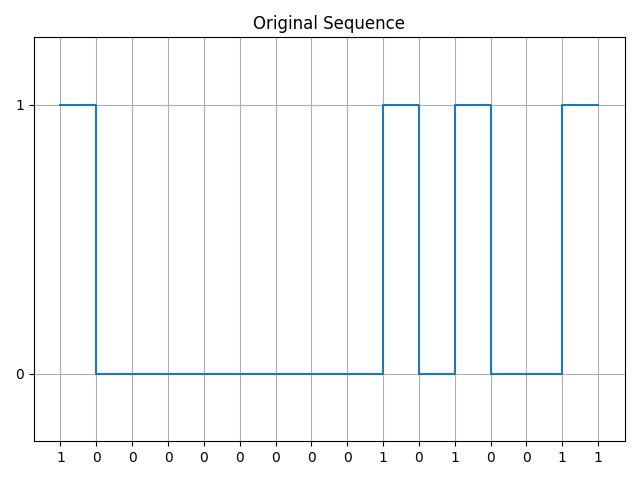
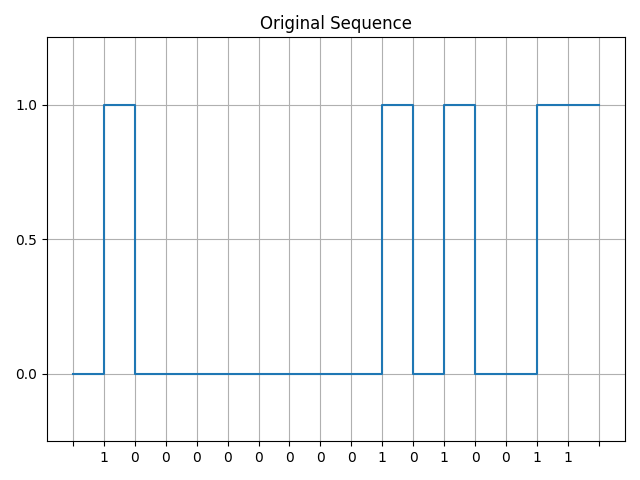
Imagens com fonte

diff --git a/project/utils/plot_encoding.py b/project/utils/plot_encoding.py
@@ -1,12 +1,19 @@
 import matplotlib.pyplot as plt
 
 def plot_signal(bits, signal, title, file_path, negative_ylim=0.25, yticks=[0, 1], manchester=False):
+    # Converte a string de bits em uma lista de caracteres
+    bits = list(bits)
+    
+    # Adicionar Fonte
+    bits = [None] + bits + [None] 
+    signal = [0] + signal + [signal[-1]]  
+
     if manchester:
         # Criar o eixo do tempo e duplicar o sinal corretamente
         time = []
         signal_expanded = []
         
-        for i in range(len(bits)):
+        for i in range(len(bits) - 2):  # Ajusta o loop para os bits extras
             # Cada bit deve ocupar dois espaços no eixo X
             time.append(i * 2)        # Primeiro espaço
             time.append(i * 2 + 1)    # Segundo espaço
@@ -20,14 +27,14 @@ def plot_signal(bits, signal, title, file_path, negative_ylim=0.25, yticks=[0, 1
         labels = []
         for i in range(len(bits)):
             ticks.append(i * 2)  # Coloca o rótulo no meio de cada par de espaços
-            labels.append(bits[i])     # Coloca o bit como rótulo
+            labels.append(bits[i] if bits[i] is not None else '') 
         
     else:
         # Código padrão para outros tipos de codificação
         time = list(range(len(signal)))
         signal_expanded = signal
         ticks = range(len(bits))
-        labels = bits
+        labels = [bit if bit is not None else '' for bit in bits] 
 
     # Plot do sinal
     plt.figure()
